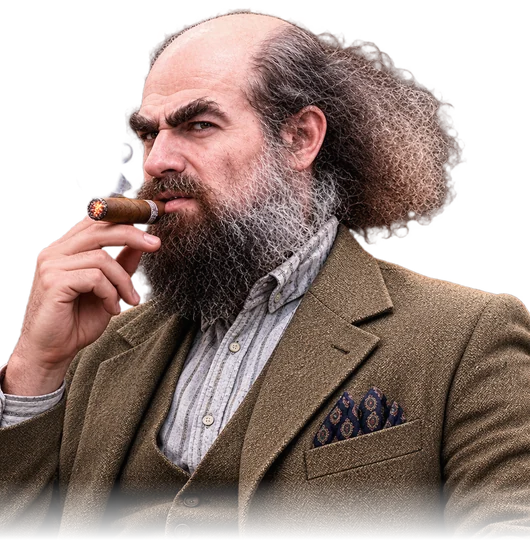
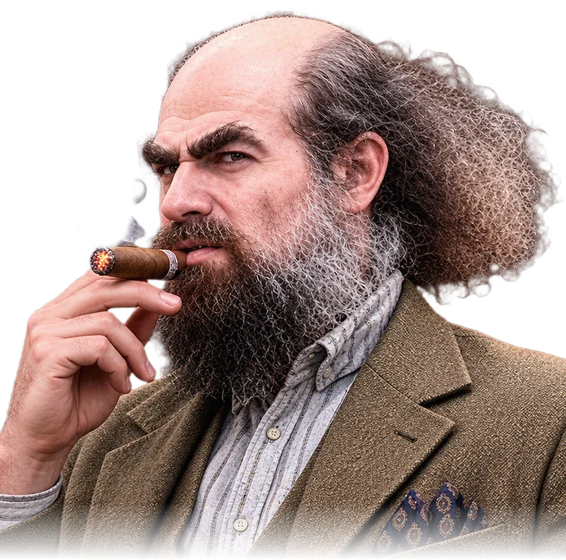
Cigar professor: same size as classic (fix container overrides, tighter crop) (v235)
Claude-Session: https://claude.ai/code/session_01ESD5gGEJPMpzDomASED1h5

diff --git a/src/index.html b/src/index.html
@@ -1600,24 +1600,24 @@ section[data-panel=today]{gap:1rem}
 .cnthink{font-size:.82rem;color:var(--muted);font-style:italic}
 
 /* ── Χαρακτήρας 2: με το πούρο ── */
-.prig.c2{aspect-ratio:530/540}
-.prig.c2 .prig-h{left:0;top:0;width:100%;height:100%;transform-origin:50% 100%}
+.prig.c2,.prof-svg.pph.cut .prig.c2{aspect-ratio:566/560}
+.prig.c2 .prig-h,.prof-svg.pph.cut .prig.c2 .prig-h{left:0;top:0;width:100%;height:100%;transform-origin:50% 100%}
 .prig.c2 .prig-h img.c2b{left:0;top:0;width:100%!important;height:100%!important}
-.prig.c2 .prig-h img.c2smk{left:2.88%;top:0;width:22.12%!important;height:37.74%!important;transform-origin:72% 100%;animation:c2smk 6s ease-in-out infinite!important;opacity:.92}
+.prig.c2 .prig-h img.c2smk{left:0.00%;top:0.00%;width:25.84%!important;height:45.45%!important;transform-origin:72% 100%;animation:c2smk 6s ease-in-out infinite!important;opacity:.92}
 @keyframes c2smk{0%,100%{transform:skewX(0) scale(1)}25%{transform:skewX(-5deg) scale(1.02,1.04) translateX(-2%)}55%{transform:skewX(4deg) scale(.99,1.01) translateX(2%)}80%{transform:skewX(-2deg) scale(1.01,.98)}}
-.prig.c2 .c2emb{position:absolute;left:18.27%;top:38.68%;width:4.9%;aspect-ratio:1;border-radius:50%;transform:translate(-50%,-50%);background:radial-gradient(circle,rgba(255,224,140,.95) 0,rgba(255,120,30,.75) 35%,rgba(255,60,0,.25) 60%,transparent 72%);mix-blend-mode:screen;animation:c2emb 2.8s ease-in-out infinite;pointer-events:none}
+.prig.c2 .c2emb{position:absolute;left:17.98%;top:46.59%;width:5.73%;aspect-ratio:1;border-radius:50%;transform:translate(-50%,-50%);background:radial-gradient(circle,rgba(255,224,140,.95) 0,rgba(255,120,30,.75) 35%,rgba(255,60,0,.25) 60%,transparent 72%);mix-blend-mode:screen;animation:c2emb 2.8s ease-in-out infinite;pointer-events:none}
 @keyframes c2emb{0%,100%{opacity:.35;transform:translate(-50%,-50%) scale(.75)}45%{opacity:1;transform:translate(-50%,-50%) scale(1.25)}60%{opacity:.8}}
-.prig.c2 .c2puff{position:absolute;left:10.9%;top:7.4%;width:13.9%;height:30.7%;pointer-events:none}
+.prig.c2 .c2puff{position:absolute;left:9.33%;top:8.86%;width:16.29%;height:37.05%;pointer-events:none}
 .prig.c2 .c2puff i{position:absolute;left:50%;bottom:0;width:38%;aspect-ratio:1;border-radius:50%;background:radial-gradient(circle,rgba(235,238,242,.55),rgba(235,238,242,0) 70%);filter:blur(2px);opacity:0;animation:c2rise 7s ease-out infinite}
 .prig.c2 .c2puff i:nth-child(2){animation-delay:2.4s;left:40%}.prig.c2 .c2puff i:nth-child(3){animation-delay:4.7s;left:58%}
 @keyframes c2rise{0%{opacity:0;transform:translate(-50%,0) scale(.4)}12%{opacity:.75}70%{opacity:.25}100%{opacity:0;transform:translate(-80%,-260%) scale(1.7)}}
-.prig.c2 .c2ex{position:absolute;left:24.2%;top:29.5%;width:11.6%;height:14.7%;pointer-events:none}
+.prig.c2 .c2ex{position:absolute;left:24.94%;top:35.57%;width:13.60%;height:17.73%;pointer-events:none}
 .prig.c2 .c2ex i{position:absolute;right:0;bottom:20%;width:60%;aspect-ratio:1.4;border-radius:50%;background:radial-gradient(ellipse,rgba(230,233,238,.6),rgba(230,233,238,0) 70%);filter:blur(3px);opacity:0;animation:c2exh 11s ease-out infinite 3s}
 .prig.c2 .c2ex i:nth-child(2){animation-delay:3.35s;width:45%;bottom:35%}
 @keyframes c2exh{0%,78%{opacity:0;transform:translate(0,0) scale(.3)}82%{opacity:.85}100%{opacity:0;transform:translate(-120%,-140%) scale(2.2)}}
-.prig.c2 .plid{width:3.4%;height:1.7%;border-radius:45% 45% 55% 55%;background:linear-gradient(180deg,#5e2f28,#9a5e55 45%,#a86c66 80%,#3a1a14)}
-.prig.c2 .plid.l{left:26.47%;top:24.06%;transform-origin:50% 0}
-.prig.c2 .plid.r{left:35.66%;top:22.3%;width:5.6%;transform:rotate(-6deg) scaleY(0)}
+.prig.c2 .plid{width:4.04%;height:2.05%;border-radius:45% 45% 55% 55%;background:linear-gradient(180deg,#5e2f28,#9a5e55 45%,#a86c66 80%,#3a1a14)}
+.prig.c2 .plid.l{left:27.53%;top:28.98%;transform-origin:50% 0}
+.prig.c2 .plid.r{left:38.31%;top:26.88%;width:6.52%;height:1.93%;transform:rotate(-6deg) scaleY(0)}
 .prig.c2 .plid.r.on{transform:rotate(-6deg) scaleY(1)}
 .prig.c2.pwet .prig-h::after{-webkit-mask:url(c2_body.webp) center/100% 100%;mask:url(c2_body.webp) center/100% 100%}
 @media (prefers-reduced-motion:reduce){.prig.c2 .prig-h img.c2smk,.prig.c2 .c2puff i,.prig.c2 .c2ex i,.prig.c2 .c2emb{animation:none!important}}
@@ -7041,7 +7041,7 @@ function stnRender(){var v=$('#stnView');if(!v||!STN.on)return;var c=AP.cfg||{},
 document.addEventListener('click',function(e){if(!e.target.closest)return;if(e.target.closest('#stnExit')){stnExit();return}if(e.target.closest('[data-stn]')){stnEnter()}});
 
 /* ---- 🔄 Όλα τα μέλη στην ίδια έκδοση: η νεότερη σελίδα γράφει τον αριθμό της· οι παλαιότερες ξαναφορτώνουν μόνες τους ---- */
-var APP_VER=234,VERS={sub:null,t:null};
+var APP_VER=235,VERS={sub:null,t:null};
 function verSub(){if(!S.db||VERS.sub)return;VERS.sub=1;try{VERS.sub=S.db.collection('meta').doc('ver').onSnapshot(function(sn){var d=sn.exists&&sn.data()||{},v=+d.v||0;
   if(v<APP_VER&&qCanSave()){S.db.collection('meta').doc('ver').set({v:APP_VER,at:Date.now(),by:S.uid}).catch(function(){})}
   else if(v>APP_VER)verReload(v)},function(){})}catch(e){}}

diff --git a/dist/index.html b/dist/index.html
@@ -1600,24 +1600,24 @@ section[data-panel=today]{gap:1rem}
 .cnthink{font-size:.82rem;color:var(--muted);font-style:italic}
 
 /* ── Χαρακτήρας 2: με το πούρο ── */
-.prig.c2{aspect-ratio:530/540}
-.prig.c2 .prig-h{left:0;top:0;width:100%;height:100%;transform-origin:50% 100%}
+.prig.c2,.prof-svg.pph.cut .prig.c2{aspect-ratio:566/560}
+.prig.c2 .prig-h,.prof-svg.pph.cut .prig.c2 .prig-h{left:0;top:0;width:100%;height:100%;transform-origin:50% 100%}
 .prig.c2 .prig-h img.c2b{left:0;top:0;width:100%!important;height:100%!important}
-.prig.c2 .prig-h img.c2smk{left:2.88%;top:0;width:22.12%!important;height:37.74%!important;transform-origin:72% 100%;animation:c2smk 6s ease-in-out infinite!important;opacity:.92}
+.prig.c2 .prig-h img.c2smk{left:0.00%;top:0.00%;width:25.84%!important;height:45.45%!important;transform-origin:72% 100%;animation:c2smk 6s ease-in-out infinite!important;opacity:.92}
 @keyframes c2smk{0%,100%{transform:skewX(0) scale(1)}25%{transform:skewX(-5deg) scale(1.02,1.04) translateX(-2%)}55%{transform:skewX(4deg) scale(.99,1.01) translateX(2%)}80%{transform:skewX(-2deg) scale(1.01,.98)}}
-.prig.c2 .c2emb{position:absolute;left:18.27%;top:38.68%;width:4.9%;aspect-ratio:1;border-radius:50%;transform:translate(-50%,-50%);background:radial-gradient(circle,rgba(255,224,140,.95) 0,rgba(255,120,30,.75) 35%,rgba(255,60,0,.25) 60%,transparent 72%);mix-blend-mode:screen;animation:c2emb 2.8s ease-in-out infinite;pointer-events:none}
+.prig.c2 .c2emb{position:absolute;left:17.98%;top:46.59%;width:5.73%;aspect-ratio:1;border-radius:50%;transform:translate(-50%,-50%);background:radial-gradient(circle,rgba(255,224,140,.95) 0,rgba(255,120,30,.75) 35%,rgba(255,60,0,.25) 60%,transparent 72%);mix-blend-mode:screen;animation:c2emb 2.8s ease-in-out infinite;pointer-events:none}
 @keyframes c2emb{0%,100%{opacity:.35;transform:translate(-50%,-50%) scale(.75)}45%{opacity:1;transform:translate(-50%,-50%) scale(1.25)}60%{opacity:.8}}
-.prig.c2 .c2puff{position:absolute;left:10.9%;top:7.4%;width:13.9%;height:30.7%;pointer-events:none}
+.prig.c2 .c2puff{position:absolute;left:9.33%;top:8.86%;width:16.29%;height:37.05%;pointer-events:none}
 .prig.c2 .c2puff i{position:absolute;left:50%;bottom:0;width:38%;aspect-ratio:1;border-radius:50%;background:radial-gradient(circle,rgba(235,238,242,.55),rgba(235,238,242,0) 70%);filter:blur(2px);opacity:0;animation:c2rise 7s ease-out infinite}
 .prig.c2 .c2puff i:nth-child(2){animation-delay:2.4s;left:40%}.prig.c2 .c2puff i:nth-child(3){animation-delay:4.7s;left:58%}
 @keyframes c2rise{0%{opacity:0;transform:translate(-50%,0) scale(.4)}12%{opacity:.75}70%{opacity:.25}100%{opacity:0;transform:translate(-80%,-260%) scale(1.7)}}
-.prig.c2 .c2ex{position:absolute;left:24.2%;top:29.5%;width:11.6%;height:14.7%;pointer-events:none}
+.prig.c2 .c2ex{position:absolute;left:24.94%;top:35.57%;width:13.60%;height:17.73%;pointer-events:none}
 .prig.c2 .c2ex i{position:absolute;right:0;bottom:20%;width:60%;aspect-ratio:1.4;border-radius:50%;background:radial-gradient(ellipse,rgba(230,233,238,.6),rgba(230,233,238,0) 70%);filter:blur(3px);opacity:0;animation:c2exh 11s ease-out infinite 3s}
 .prig.c2 .c2ex i:nth-child(2){animation-delay:3.35s;width:45%;bottom:35%}
 @keyframes c2exh{0%,78%{opacity:0;transform:translate(0,0) scale(.3)}82%{opacity:.85}100%{opacity:0;transform:translate(-120%,-140%) scale(2.2)}}
-.prig.c2 .plid{width:3.4%;height:1.7%;border-radius:45% 45% 55% 55%;background:linear-gradient(180deg,#5e2f28,#9a5e55 45%,#a86c66 80%,#3a1a14)}
-.prig.c2 .plid.l{left:26.47%;top:24.06%;transform-origin:50% 0}
-.prig.c2 .plid.r{left:35.66%;top:22.3%;width:5.6%;transform:rotate(-6deg) scaleY(0)}
+.prig.c2 .plid{width:4.04%;height:2.05%;border-radius:45% 45% 55% 55%;background:linear-gradient(180deg,#5e2f28,#9a5e55 45%,#a86c66 80%,#3a1a14)}
+.prig.c2 .plid.l{left:27.53%;top:28.98%;transform-origin:50% 0}
+.prig.c2 .plid.r{left:38.31%;top:26.88%;width:6.52%;height:1.93%;transform:rotate(-6deg) scaleY(0)}
 .prig.c2 .plid.r.on{transform:rotate(-6deg) scaleY(1)}
 .prig.c2.pwet .prig-h::after{-webkit-mask:url(c2_body.webp) center/100% 100%;mask:url(c2_body.webp) center/100% 100%}
 @media (prefers-reduced-motion:reduce){.prig.c2 .prig-h img.c2smk,.prig.c2 .c2puff i,.prig.c2 .c2ex i,.prig.c2 .c2emb{animation:none!important}}

diff --git a/dist/app.js b/dist/app.js
@@ -3169,7 +3169,7 @@ function stnRender(){var v=$('#stnView');if(!v||!STN.on)return;var c=AP.cfg||{},
 document.addEventListener('click',function(e){if(!e.target.closest)return;if(e.target.closest('#stnExit')){stnExit();return}if(e.target.closest('[data-stn]')){stnEnter()}});
 
 /* ---- 🔄 Όλα τα μέλη στην ίδια έκδοση: η νεότερη σελίδα γράφει τον αριθμό της· οι παλαιότερες ξαναφορτώνουν μόνες τους ---- */
-var APP_VER=234,VERS={sub:null,t:null};
+var APP_VER=235,VERS={sub:null,t:null};
 function verSub(){if(!S.db||VERS.sub)return;VERS.sub=1;try{VERS.sub=S.db.collection('meta').doc('ver').onSnapshot(function(sn){var d=sn.exists&&sn.data()||{},v=+d.v||0;
   if(v<APP_VER&&qCanSave()){S.db.collection('meta').doc('ver').set({v:APP_VER,at:Date.now(),by:S.uid}).catch(function(){})}
   else if(v>APP_VER)verReload(v)},function(){})}catch(e){}}
